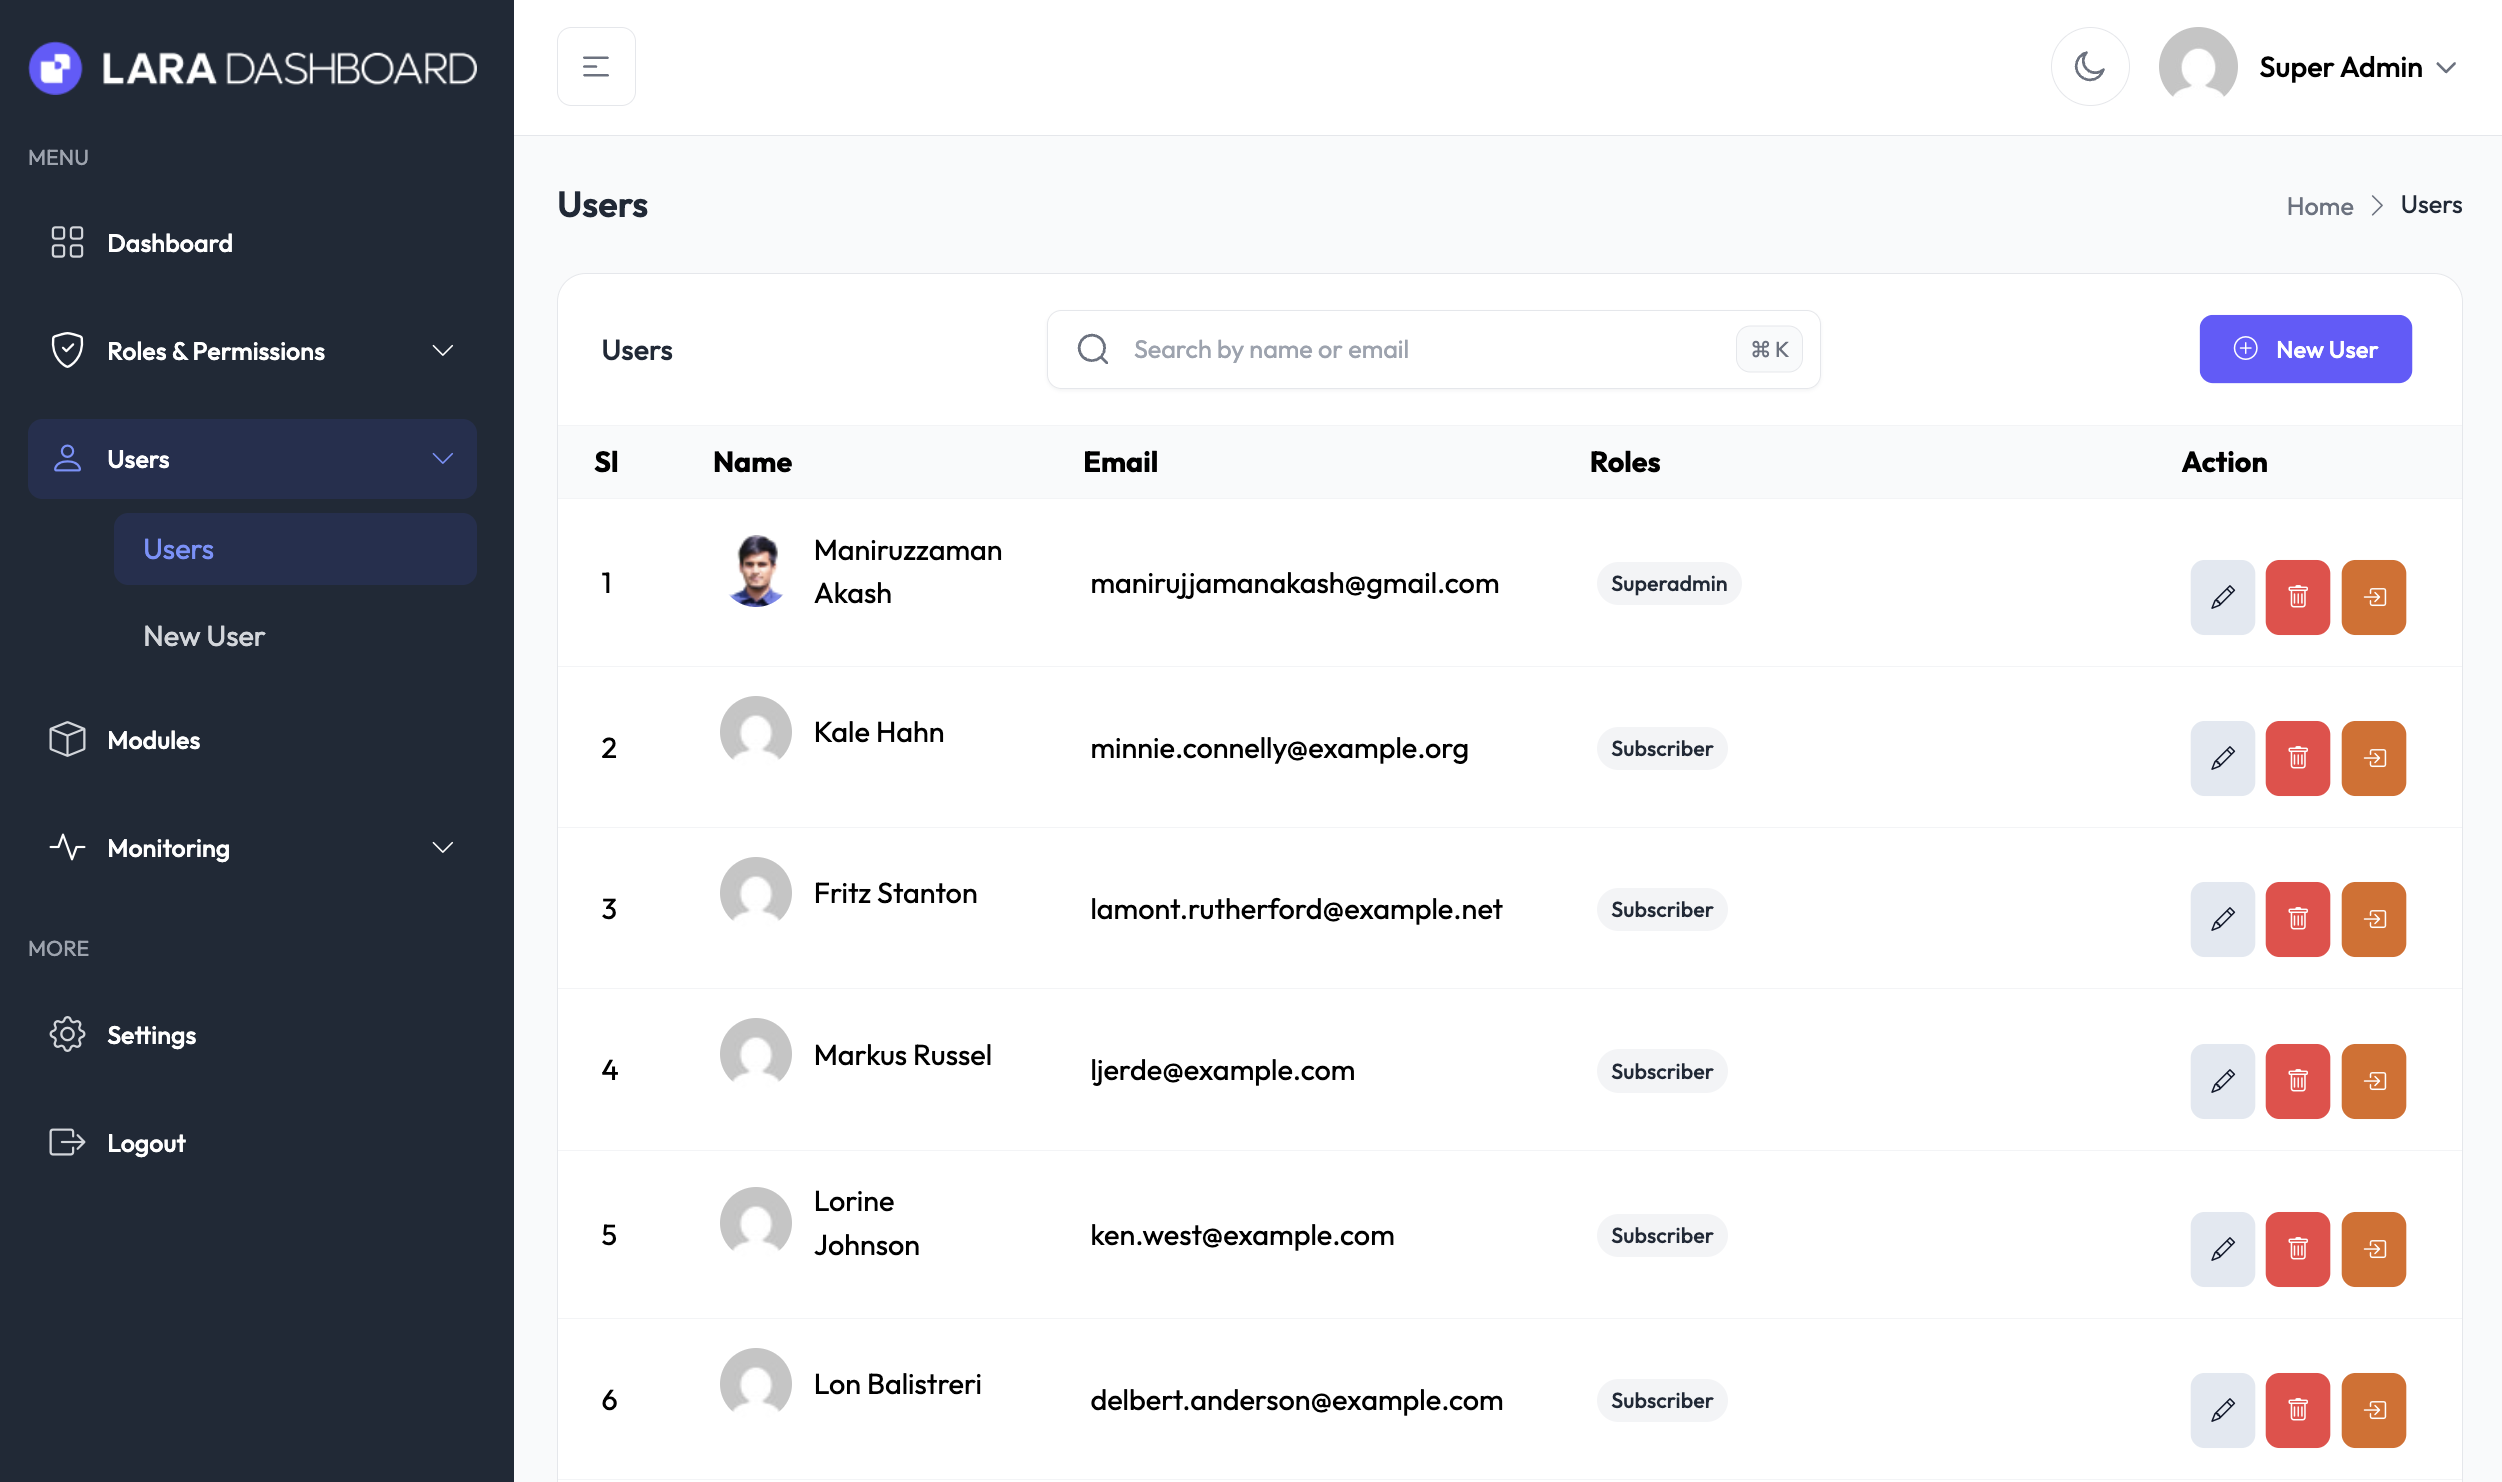
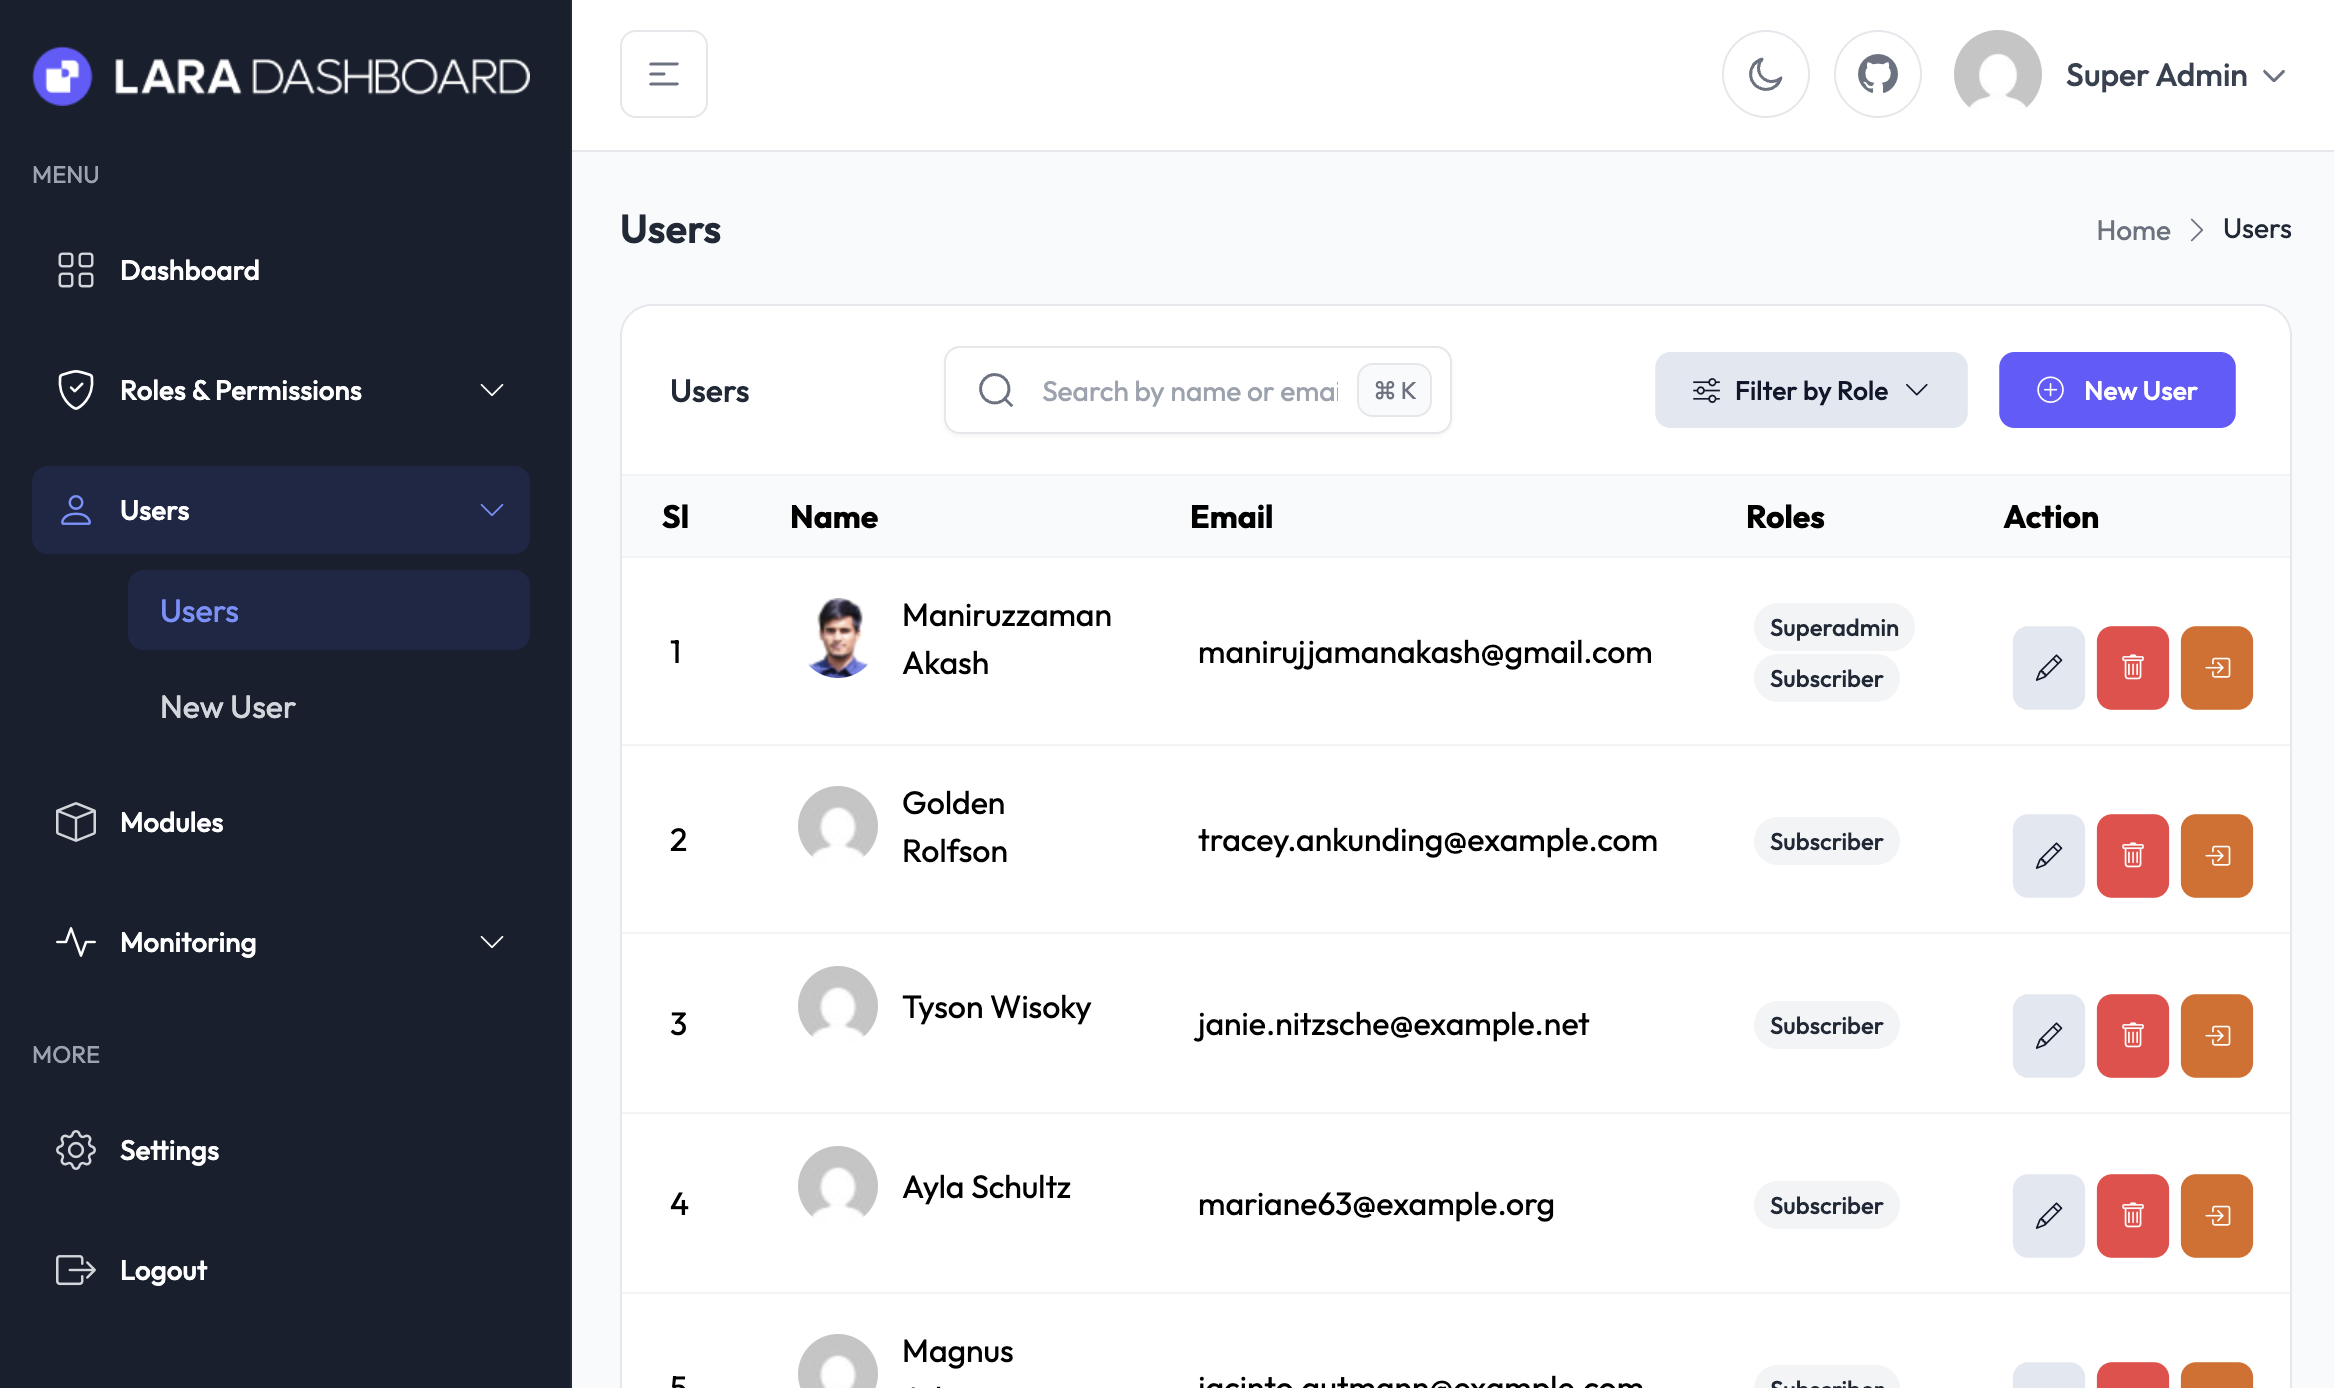
User list/add/edit UI and functionality improved

diff --git a/resources/views/backend/pages/users/index.blade.php b/resources/views/backend/pages/users/index.blade.php
@@ -35,12 +35,38 @@
                     'placeholder' => __('Search by name or email'),
                 ])
 
-                @if (auth()->user()->can('user.edit'))
-                    <a href="{{ route('admin.users.create') }}" class="btn-primary">
-                        <i class="bi bi-plus-circle mr-2"></i>
-                        {{ __('New User') }}
-                    </a>
-                @endif
+                <div class="flex items-center gap-2">
+                    <div class="flex items-center justify-center">
+                        <button id="roleDropdownButton" data-dropdown-toggle="roleDropdown" class="btn-default flex items-center justify-center gap-2" type="button">
+                            <i class="bi bi-sliders"></i>
+                            {{ __('Filter by Role') }}
+                            <i class="bi bi-chevron-down"></i>
+                        </button>
+
+                        <!-- Dropdown menu -->
+                        <div id="roleDropdown" class="z-10 hidden w-56 p-3 bg-white rounded-lg shadow dark:bg-gray-700">
+                            <ul class="space-y-2">
+                                <li class="cursor-pointer text-sm text-gray-700 dark:text-white hover:bg-gray-200 dark:hover:bg-gray-600 px-2 py-1 rounded"
+                                    onclick="handleRoleFilter('')">
+                                    {{ __('All Roles') }}
+                                </li>
+                                @foreach ($roles as $id => $name)
+                                    <li class="cursor-pointer text-sm text-gray-700 dark:text-white hover:bg-gray-200 dark:hover:bg-gray-600 px-2 py-1 rounded {{ $name === request('role') ? 'bg-gray-200 dark:bg-gray-600' : '' }}"
+                                        onclick="handleRoleFilter('{{ $name }}')">
+                                        {{ ucfirst($name) }}
+                                    </li>
+                                @endforeach
+                            </ul>
+                        </div>
+                    </div>
+
+                    @if (auth()->user()->can('user.edit'))
+                        <a href="{{ route('admin.users.create') }}" class="btn-primary">
+                            <i class="bi bi-plus-circle mr-2"></i>
+                            {{ __('New User') }}
+                        </a>
+                    @endif
+                </div>
             </div>
             <div class="space-y-3 border-t border-gray-100 dark:border-gray-800 overflow-x-auto">
                 @include('backend.layouts.partials.messages')
@@ -156,4 +182,14 @@
         </div>
     </div>
 </div>
+
+@push('scripts')
+    <script>
+        function handleRoleFilter(value) {
+            let currentUrl = new URL(window.location.href);
+            currentUrl.searchParams.set('role', value);
+            window.location.href = currentUrl.toString();
+        }
+    </script>
+@endpush
 @endsection

diff --git a/resources/views/backend/pages/users/edit.blade.php b/resources/views/backend/pages/users/edit.blade.php
@@ -14,17 +14,19 @@ User Edit - {{ config('app.name') }}
                 <ol class="flex items-center gap-1.5 text-sm text-gray-500 dark:text-gray-400">
                     <li>
                         <a href="{{ route('admin.dashboard') }}" class="inline-flex items-center gap-1.5">
-                            Home
+                            {{ __('Home') }}
                             <i class="bi bi-chevron-right"></i>
                         </a>
                     </li>
                     <li>
                         <a href="{{ route('admin.users.index') }}" class="inline-flex items-center gap-1.5">
-                            Users
+                            {{ __('Users') }}
                             <i class="bi bi-chevron-right"></i>
                         </a>
                     </li>
-                    <li class="text-gray-800 dark:text-white" x-text="pageName">Edit User</li>
+                    <li class="text-gray-800 dark:text-white" x-text="pageName">
+                        {{ __('Edit User') }}
+                    </li>
                 </ol>
             </nav>
         </div>
@@ -60,10 +62,10 @@ User Edit - {{ config('app.name') }}
                         <div>
                             <label for="roles" class="block text-sm font-medium text-gray-700 dark:text-gray-400">{{ __('Assign Roles') }}</label>
                             <div class="space-y-2">
-                                @foreach ($roles as $role)
+                                @foreach ($roles as $id => $name)
                                     <div class="flex items-center">
-                                        <input type="checkbox" name="roles[]" id="role_{{ $role->id }}" value="{{ $role->name }}" {{ $user->hasRole($role->name) ? 'checked' : '' }} class="h-4 w-4 text-brand-500 border-gray-300 rounded focus:ring-brand-400 dark:border-gray-700 dark:bg-gray-900 dark:focus:ring-brand-500">
-                                        <label for="role_{{ $role->id }}" class="ml-2 text-sm text-gray-700 dark:text-gray-400">{{ $role->name }}</label>
+                                        <input type="checkbox" name="roles[]" id="role_{{ $id }}" value="{{ $name }}" {{ $user->roles->pluck('id')->contains($id) ? 'checked' : '' }} class="h-4 w-4 text-brand-500 border-gray-300 rounded focus:ring-brand-400 dark:border-gray-700 dark:bg-gray-900 dark:focus:ring-brand-500">
+                                        <label for="role_{{ $id }}" class="ml-2 text-sm text-gray-700 dark:text-gray-400">{{ ucfirst($name) }}</label>
                                     </div>
                                 @endforeach
                             </div>

diff --git a/resources/views/backend/pages/users/create.blade.php b/resources/views/backend/pages/users/create.blade.php
@@ -14,17 +14,19 @@ User Create - {{ config('app.name') }}
                 <ol class="flex items-center gap-1.5">
                     <li>
                         <a class="inline-flex items-center gap-1.5 text-sm text-gray-500 dark:text-gray-400" href="{{ route('admin.dashboard') }}">
-                            Home
+                            {{ __('Home') }}
                             <i class="bi bi-chevron-right"></i>
                         </a>
                     </li>
                     <li>
                         <a class="inline-flex items-center gap-1.5 text-sm text-gray-500 dark:text-gray-400" href="{{ route('admin.users.index') }}">
-                            Users
+                            {{ __('Users') }}
                             <i class="bi bi-chevron-right"></i>
                         </a>
                     </li>
-                    <li class="text-sm text-gray-800 dark:text-white/90" x-text="pageName">New User</li>
+                    <li class="text-sm text-gray-800 dark:text-white/90" x-text="pageName">
+                        {{ __('New User') }}
+                    </li>
                 </ol>
             </nav>
         </div>
@@ -59,10 +61,10 @@ User Create - {{ config('app.name') }}
                         <div>
                             <label for="roles" class="block text-sm font-medium text-gray-700 dark:text-gray-400">{{ __('Assign Roles') }}</label>
                             <div class="space-y-2">
-                                @foreach ($roles as $role)
+                                @foreach ($roles as $id => $name)
                                     <div class="flex items-center">
-                                        <input type="checkbox" name="roles[]" id="role_{{ $role->id }}" value="{{ $role->name }}" class="h-4 w-4 text-brand-500 border-gray-300 rounded focus:ring-brand-400 dark:border-gray-700 dark:bg-gray-900 dark:focus:ring-brand-500">
-                                        <label for="role_{{ $role->id }}" class="ml-2 text-sm text-gray-700 dark:text-gray-400">{{ $role->name }}</label>
+                                        <input type="checkbox" name="roles[]" id="role_{{ $id }}" value="{{ $name }}" class="h-4 w-4 text-brand-500 border-gray-300 rounded focus:ring-brand-400 dark:border-gray-700 dark:bg-gray-900 dark:focus:ring-brand-500">
+                                        <label for="role_{{ $id }}" class="ml-2 text-sm text-gray-700 dark:text-gray-400">{{ ucfirst($name) }}</label>
                                     </div>
                                 @endforeach
                             </div>

diff --git a/app/Http/Controllers/Backend/UsersController.php b/app/Http/Controllers/Backend/UsersController.php
@@ -8,30 +8,27 @@ use App\Enums\ActionType;
 use App\Http\Controllers\Controller;
 use App\Http\Requests\UserRequest;
 use App\Models\User;
+use App\Services\UserService;
+use App\Services\RolesService;
 use Illuminate\Contracts\Support\Renderable;
 use Illuminate\Http\RedirectResponse;
-use Illuminate\Support\Facades\Auth;
 use Illuminate\Support\Facades\Hash;
-use Illuminate\Support\Facades\Session;
-use Spatie\Permission\Models\Role;
 
 class UsersController extends Controller
 {
+    public function __construct(
+        private readonly UserService $userService,
+        private readonly RolesService $rolesService
+    ) {
+    }
+
     public function index(): Renderable
     {
         $this->checkAuthorization(auth()->user(), ['user.view']);
 
-        // Search functionality.
-        $query = User::query();
-        $search = request()->input('search');
-        if ($search) {
-            $query->where('name', 'like', "%{$search}%")
-                ->orWhere('username', 'like', "%{$search}%")
-                ->orWhere('email', 'like', "%{$search}%");
-        }
-
         return view('backend.pages.users.index', [
-            'users' => $query->latest()->paginate(config('settings.default_pagination') ?? 10),
+            'users' => $this->userService->getUsers(),
+            'roles' => $this->rolesService->getRolesDropdown(),
         ]);
     }
 
@@ -42,7 +39,7 @@ class UsersController extends Controller
         ld_do_action('user_create_page_before');
 
         return view('backend.pages.users.create', [
-            'roles' => Role::all(),
+            'roles' => $this->rolesService->getRolesDropdown(),
         ]);
     }
 
@@ -88,7 +85,7 @@ class UsersController extends Controller
 
         return view('backend.pages.users.edit', [
             'user' => $user,
-            'roles' => Role::all(),
+            'roles' => $this->rolesService->getRolesDropdown(),
         ]);
     }
 
@@ -128,7 +125,7 @@ class UsersController extends Controller
     {
         $this->checkAuthorization(auth()->user(), ['user.delete']);
 
-        $user = User::findOrFail($id);
+        $user = $this->userService->getUserById($id);
 
         // Prevent deletion of super admin in demo mode
         $this->preventSuperAdminModification($user);

diff --git a/app/Services/UserService.php b/app/Services/UserService.php
@@ -1,0 +1,33 @@
+<?php
+
+declare(strict_types=1);
+
+namespace App\Services;
+
+use App\Models\User;
+use Illuminate\Pagination\LengthAwarePaginator;
+use Spatie\Permission\Models\Role;
+
+class UserService
+{
+    public function getUsers(): LengthAwarePaginator
+    {
+        $query = User::query();
+        $search = request()->input('search');
+
+        if ($search) {
+            $query->where('name', 'like', "%{$search}%")
+                ->orWhere('username', 'like', "%{$search}%")
+                ->orWhere('email', 'like', "%{$search}%");
+        }
+
+        $role = request()->input('role');
+        if ($role) {
+            $query->whereHas('roles', function ($q) use ($role) {
+                $q->where('name', $role);
+            });
+        }
+
+        return $query->latest()->paginate(config('settings.default_pagination') ?? 10);
+    }
+}

diff --git a/app/Services/RolesService.php b/app/Services/RolesService.php
@@ -1,0 +1,20 @@
+<?php
+
+declare(strict_types=1);
+
+namespace App\Services;
+
+use Spatie\Permission\Models\Role;
+
+class RolesService
+{
+    public function getAllRoles()
+    {
+        return Role::all();
+    }
+
+    public function getRolesDropdown(): array
+    {
+        return Role::pluck('name', 'id')->toArray();
+    }
+}
